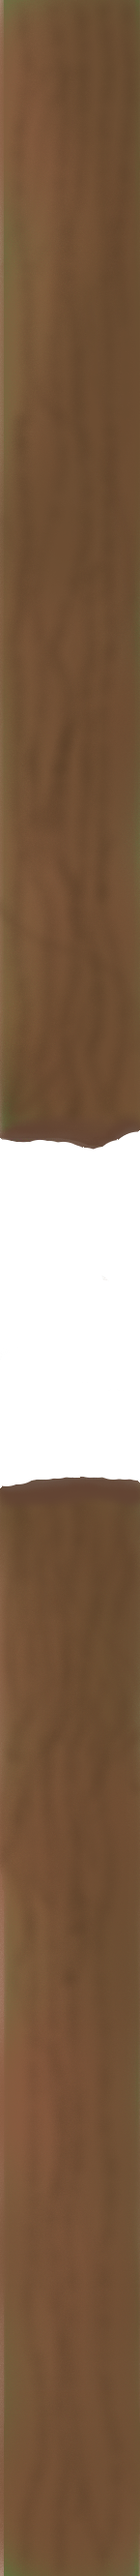
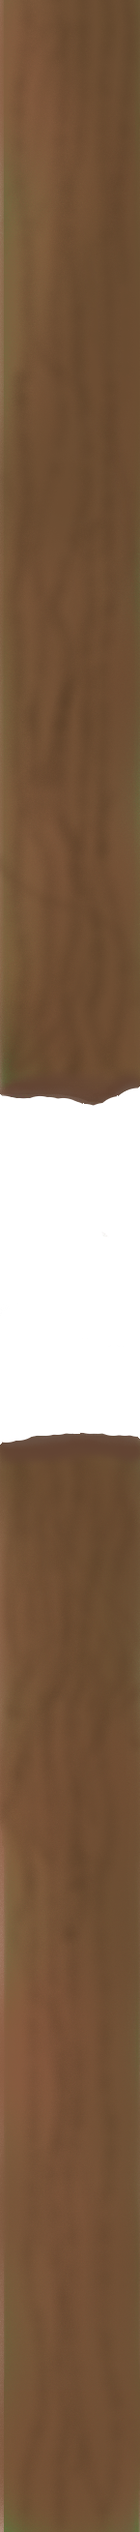
Dostosowanie grafiki oraz wielkości przerwy

Changed region(s): [[0.0, 0.4024, 1.0, 0.4643], [0.0, 0.5571, 1.0, 0.5881]]

diff --git a/TrzmielIT.py b/TrzmielIT.py
@@ -52,7 +52,7 @@ pointget_acc = 0
 inactive_bool = False
 game_highscores_file = open(r"data/highscores.txt", 'r+')
 HIGHSCORE = None
-gap = 147
+gap = 98
 
 """
     Adresy obrazków i dźwięków
@@ -809,7 +809,7 @@ def check_collision(trzmiel, obstacle):
     obstacle_borders = (
         obstacle.rect.centerx - obstacle.image.get_width() / 2, obstacle.rect.centerx + obstacle.image.get_width() / 2)
     return obstacle_borders[0] < trzmiel.rect.centerx + trzmiel.image.get_width() / 2 < obstacle_borders[1] and abs(
-        trzmiel.rect.center[1] - obstacle.rect.center[1]) > gap / 2 + trzmiel_size[1] / 2
+        trzmiel.rect.center[1] - obstacle.rect.center[1]) > gap / 2
 
 
 class Obstacle(pygame.sprite.Sprite):
